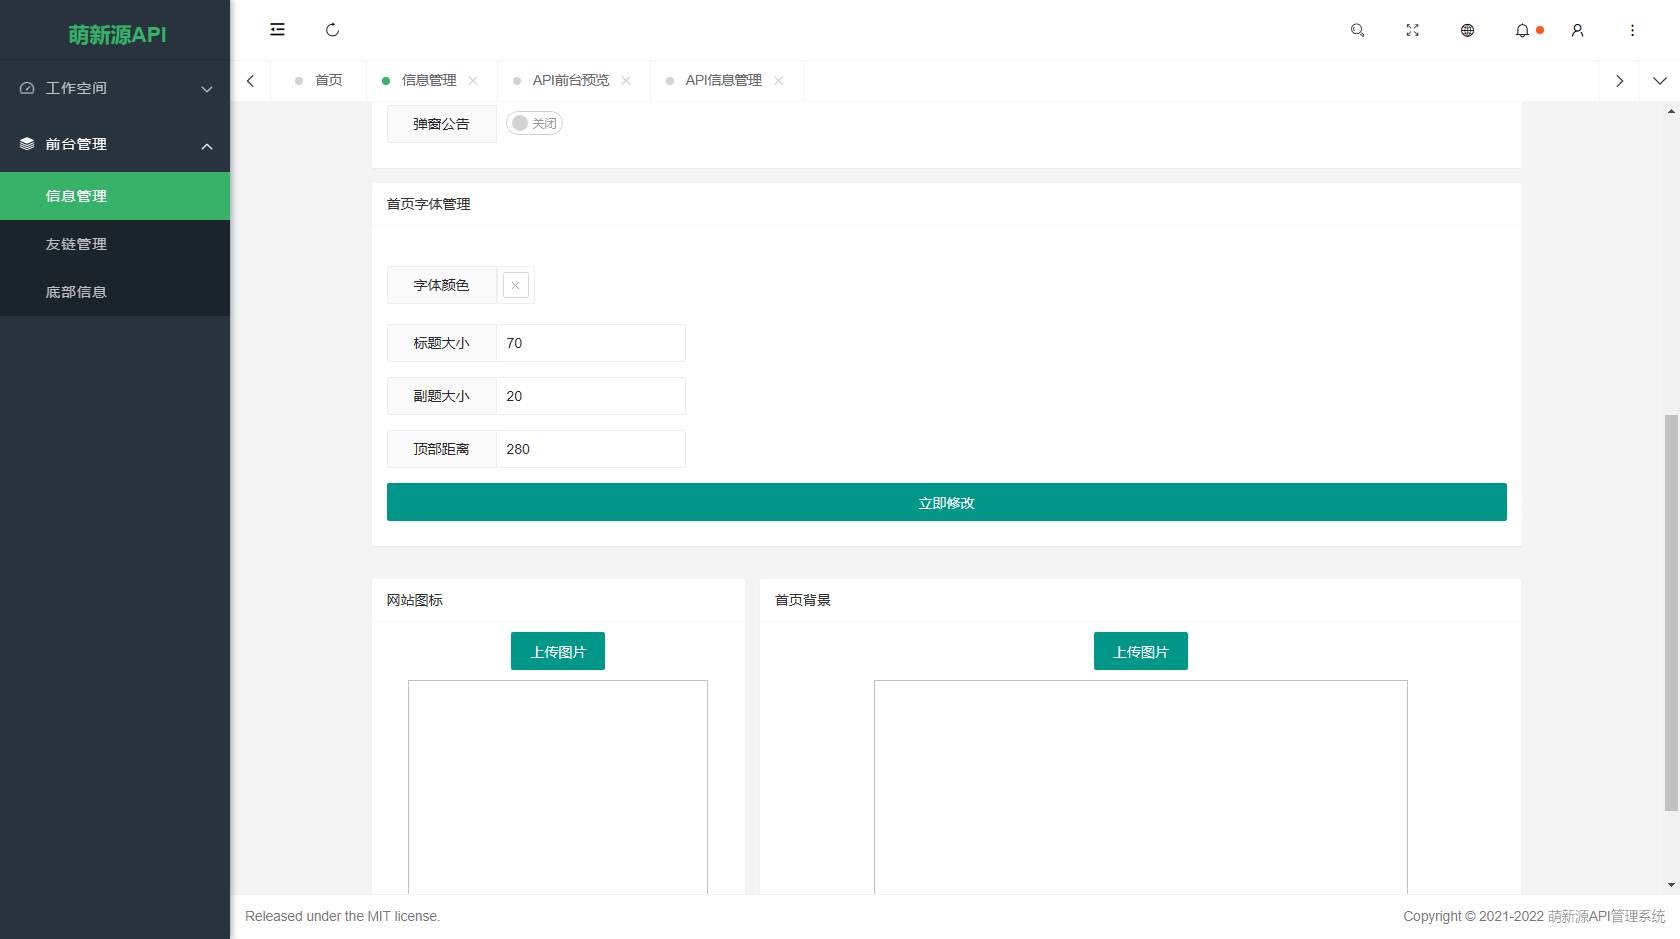
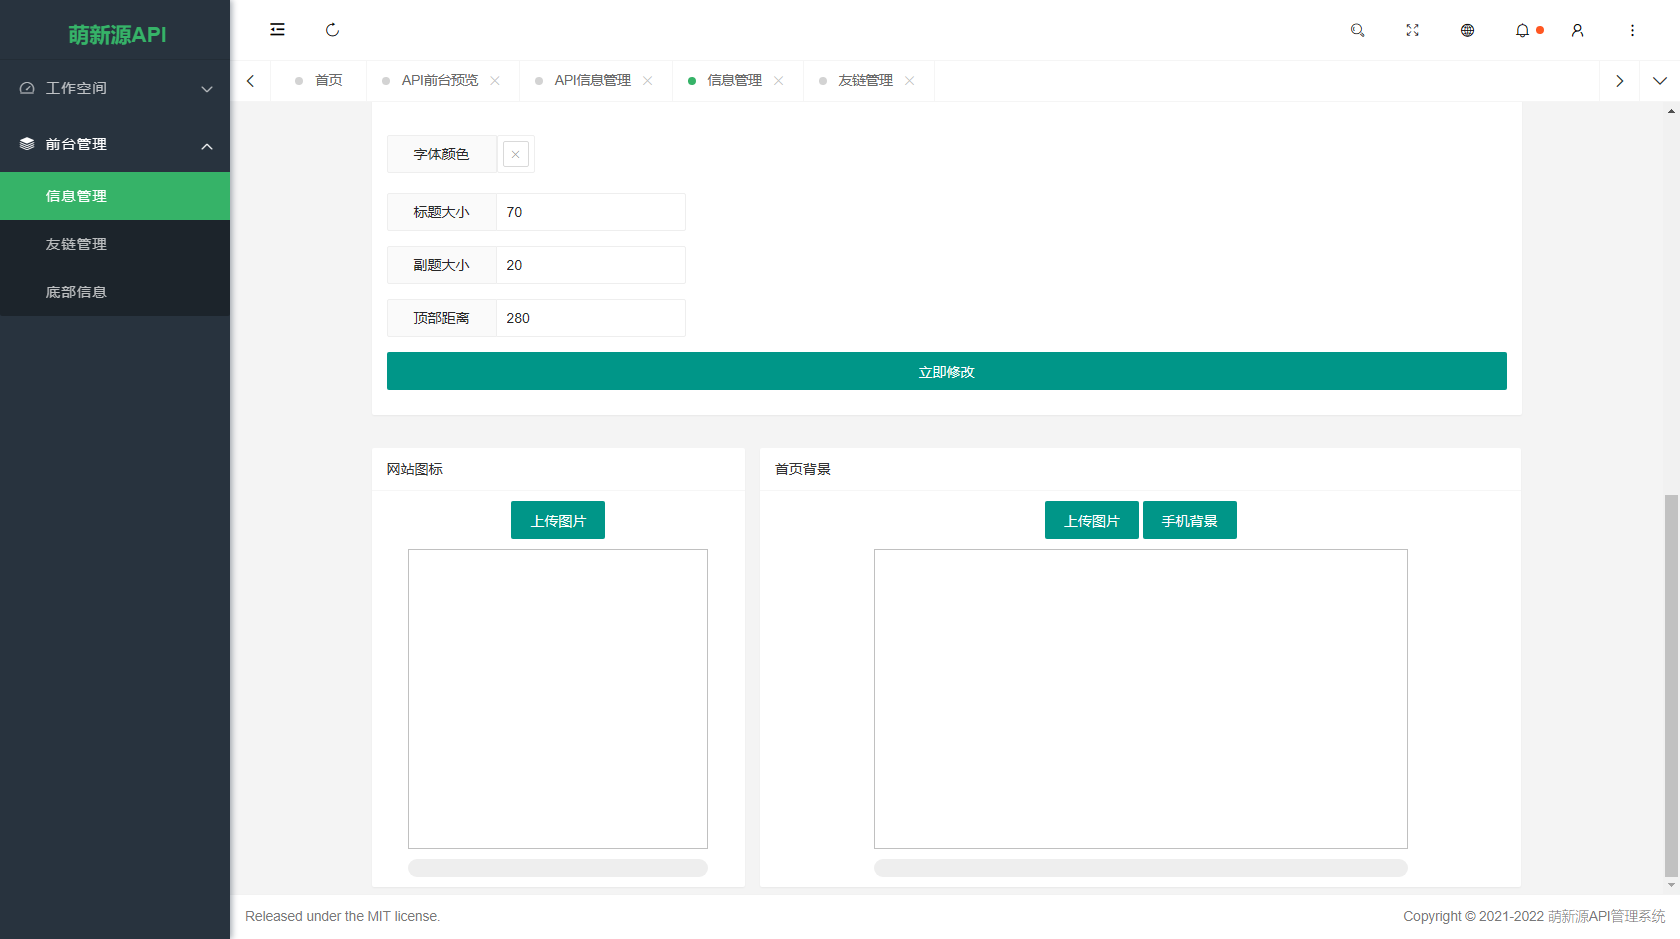
update md

diff --git a/README.md b/README.md
@@ -59,11 +59,35 @@ location / {
 
 ### 网站首页
 
+电脑端手机端不同，可自定义
+
+#### 电脑端
+
 ![](./img/home.png)
+
+搜索api功能
+
+![](D:\Blog\文章\文章图片\README\gome-search.png)
+
+API列表
 
 ![](./img/home2.png)
 
+友情链接
+
 ![](./img/home3.png)
+
+#### 手机端
+
+![](D:\Blog\文章\文章图片\README\phone-home.png)
+
+API列表
+
+![](D:\Blog\文章\文章图片\README\phone-home2.png)
+
+友情链接列表
+
+![](D:\Blog\文章\文章图片\README\phone-home3.png)
 
 ### 登录界面
 
@@ -186,6 +210,12 @@ location / {
 - 优化api列表卡片
 - 优化封面直达按钮下滑动画
 - 美化友情链接
+
+2023.1.8 v6.1
+
+- 新增手机电脑壁纸自定义，支持不同壁纸
+- 优化seo
+- 做了一些细节处理
 
 
 
